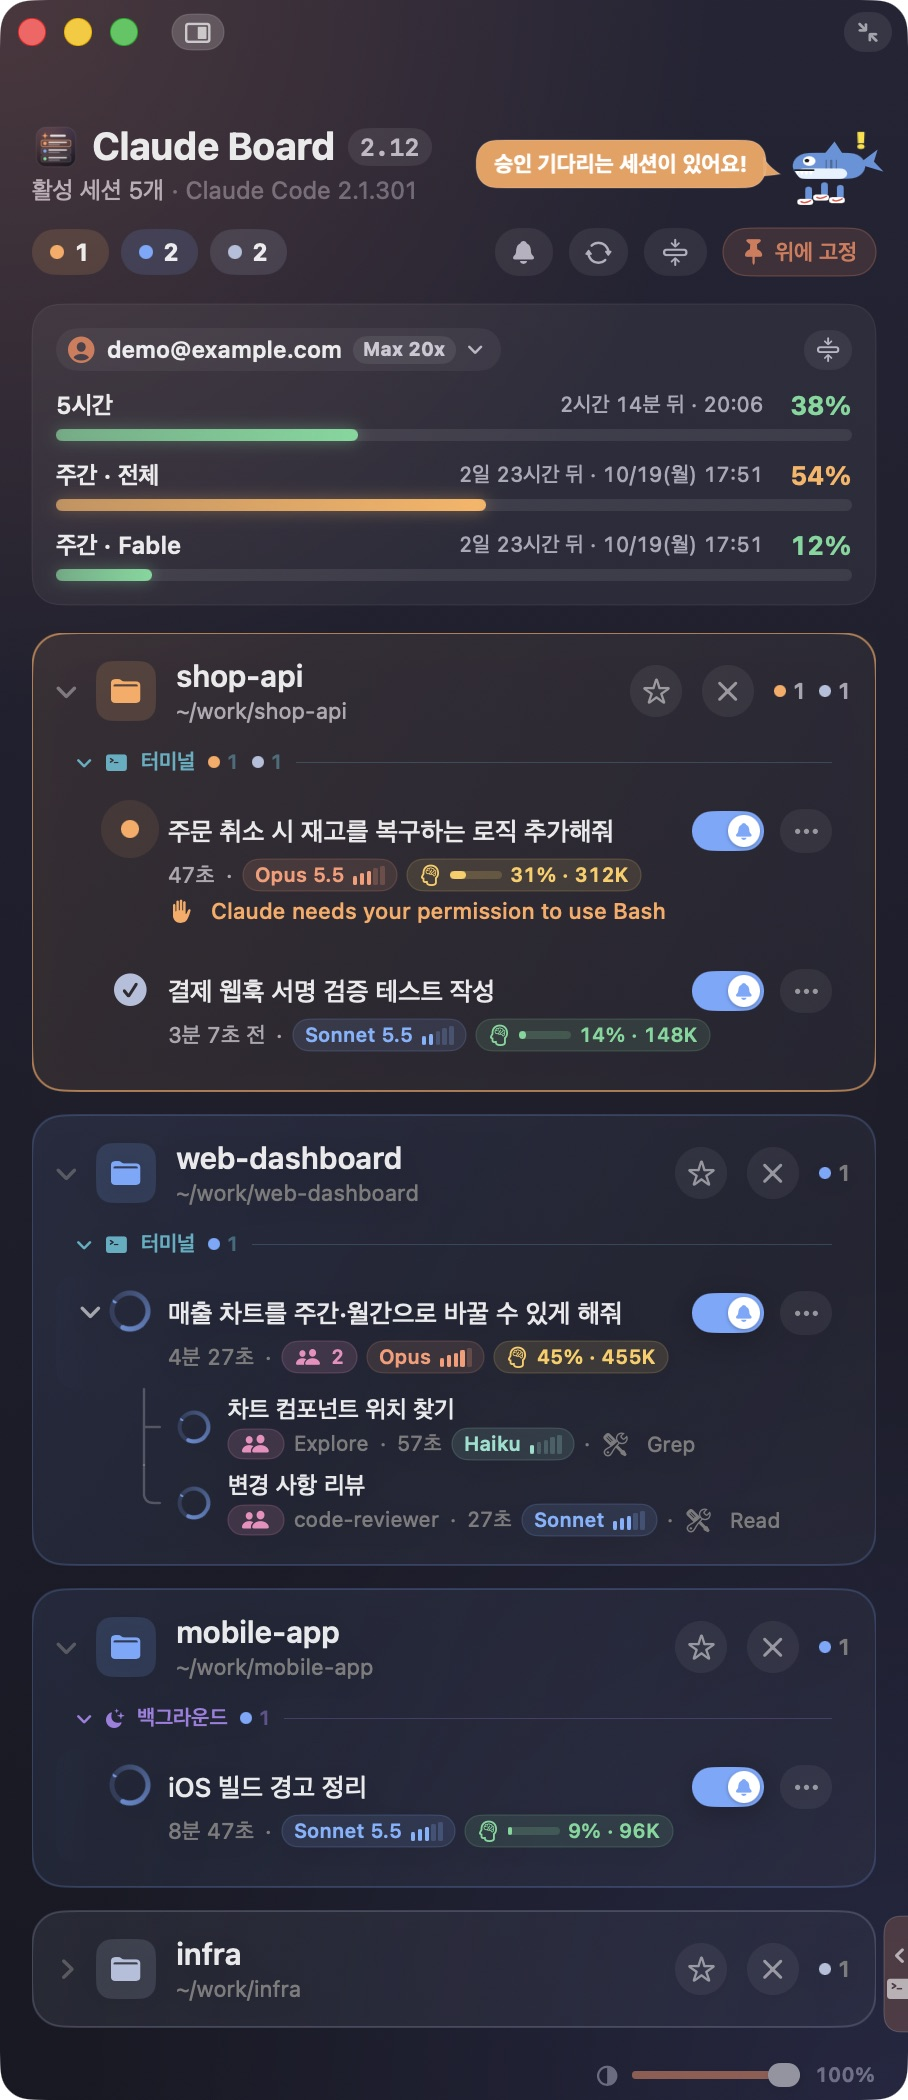
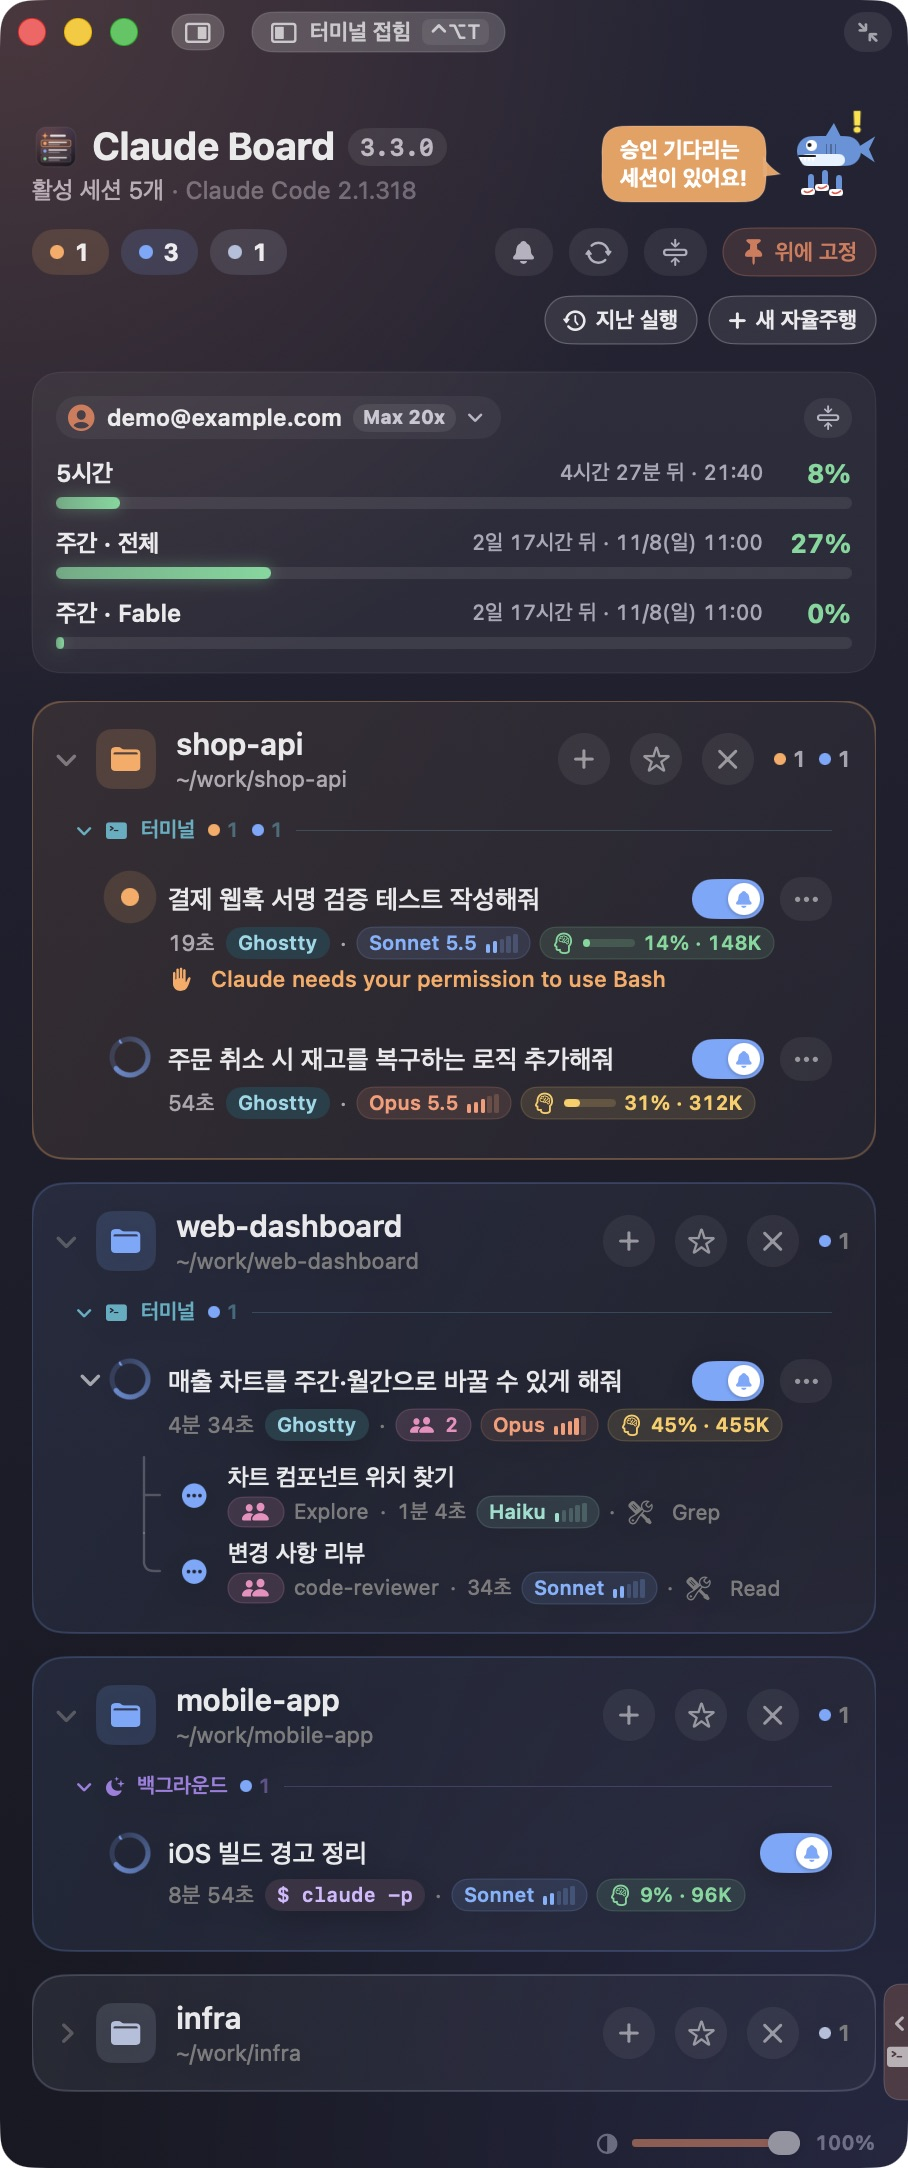
홈페이지 그림: 3.3.0 화면으로 다시 찍고 자율주행 그림 둘을 더함
- hero·medium·mini·update 를 3.3.0 시험 빌드 화면으로 다시 찍었다(site/images 와 README 가 쓰는 docs/images 를 같은 그림으로).
  장난감 홈(CFFIXED_USER_HOME)의 장난감 세션·계정 표시(demo@example.com)·경로(~/work/…)로 찍었다
- 새 그림: autopilot.jpg(자율주행 중 화면: 지금 단위·다음 단위·진행 기록·멈출 선), autopilot-board.jpg(보드 카드 안의 실행 줄).
  첫 화면 자율주행 상자 아래와 자율주행 쪽 "지켜보고, 끼어들고, 받아 봅니다" 에 figure 로 넣었다
- mini 는 경로 넷이 다 보이게 한 줄 높게(600×444), update 는 3.2.8 사본이 받은 공개 VERSION(3.3.0) 알림 줄
- 알림 패널 둘·아이콘은 그 뒤 화면 코드가 바뀌지 않아 그대로 둔다

Claude-Session: https://claude.ai/code/session_01KmZacBsVEpbAs4najEbXgX

diff --git a/site/index.html b/site/index.html
@@ -344,6 +344,10 @@ footer.site a:hover { color: var(--fg) }
       </div>
       <a class="btn primary" href="#autopilot">자율주행 보기</a>
     </div>
+    <div class="split" style="margin-top:28px;align-items:start">
+      <figure><div class="shot"><img src="images/autopilot-board.jpg" alt="보드의 shop-api 카드 안에 자율주행 실행 줄이 붙은 모습: 지금 단위 2/4, 단위 시계, 비용, 주간·5시간 사용률과 멈출 선 눈금" loading="lazy"></div><figcaption>보드에서: 실행이 도는 경로 카드에 실행 줄이 붙어 지금 단위와 멈출 선까지 보입니다.</figcaption></figure>
+      <figure><div class="shot tall" style="max-height:none;aspect-ratio:908/1462"><img src="images/autopilot.jpg" alt="자율주행 중 화면: 지금 단위 카드와 단위 상한, 일시정지·중단·터미널로 이어받기 단추, 한마디 칸, 다음 단위, 진행 기록" loading="lazy"></div><figcaption>자율주행 중 화면: 실행 줄을 누르면 지금 단위, 다음 단위, 진행 기록을 봅니다.</figcaption></figure>
+    </div>
   </div></div>
 
   <div class="block"><div class="wrap">
@@ -565,6 +569,10 @@ footer.site a:hover { color: var(--fg) }
 
   <div class="block"><div class="wrap">
     <h2>지켜보고, 끼어들고, 받아 봅니다</h2>
+    <div class="split" style="margin:8px 0 28px;align-items:start">
+      <figure><div class="shot"><img src="images/autopilot.jpg" alt="자율주행 중 화면: 실행 하나의 지금 단위 2/4 카드와 단위 상한, 다음 단위 둘, 단위별로 접힌 진행 기록, 주간·5시간 사용률 막대와 멈출 선, 지킴 줄" loading="lazy"></div><figcaption>자율주행 중 화면: 지금 단위와 단위 상한, 방향을 바꿀 한마디, 진행 기록, 멈출 선이 한 화면에 있습니다.</figcaption></figure>
+      <figure><div class="shot"><img src="images/autopilot-board.jpg" alt="보드의 shop-api 카드 안에 자율주행 실행 줄이 붙은 모습: 지금 단위, 단위 시계, 비용, 사용률과 멈출 선 눈금" loading="lazy"></div><figcaption>보드의 실행 줄: 사람 세션과 함께 보이고, 누르면 자율주행 중 화면으로 갑니다.</figcaption></figure>
+    </div>
     <div class="grid g3">
       <div class="card"><div class="ic">◎</div><h3>보드에서 지켜보기</h3><p>경로 카드 안 실행 줄과 자율주행 중 화면에서 지금 단위·다음 단위·진행 기록을 봅니다. 일시정지·재개·중단하고, 방향을 바꿀 말을 지금 단위에 또는 다음 단위부터 보냅니다. 엔진은 실행마다 따로 돌아 보드를 꺼도 이어 갑니다.</p></div>
       <div class="card"><div class="ic">↻</div><h3>멈출 선과 한도 대기</h3><p>단위마다 시간·비용·주간 사용량 상한이 있습니다. 계정 사용률이 멈출 선(기본 주간 80%·5시간 95%)에 닿으면 지금 단위를 마친 뒤 기다렸다가, 사용량이 초기화되면 이어 갑니다. 사용 한도 막대의 눈금이 멈출 선입니다.</p></div>
